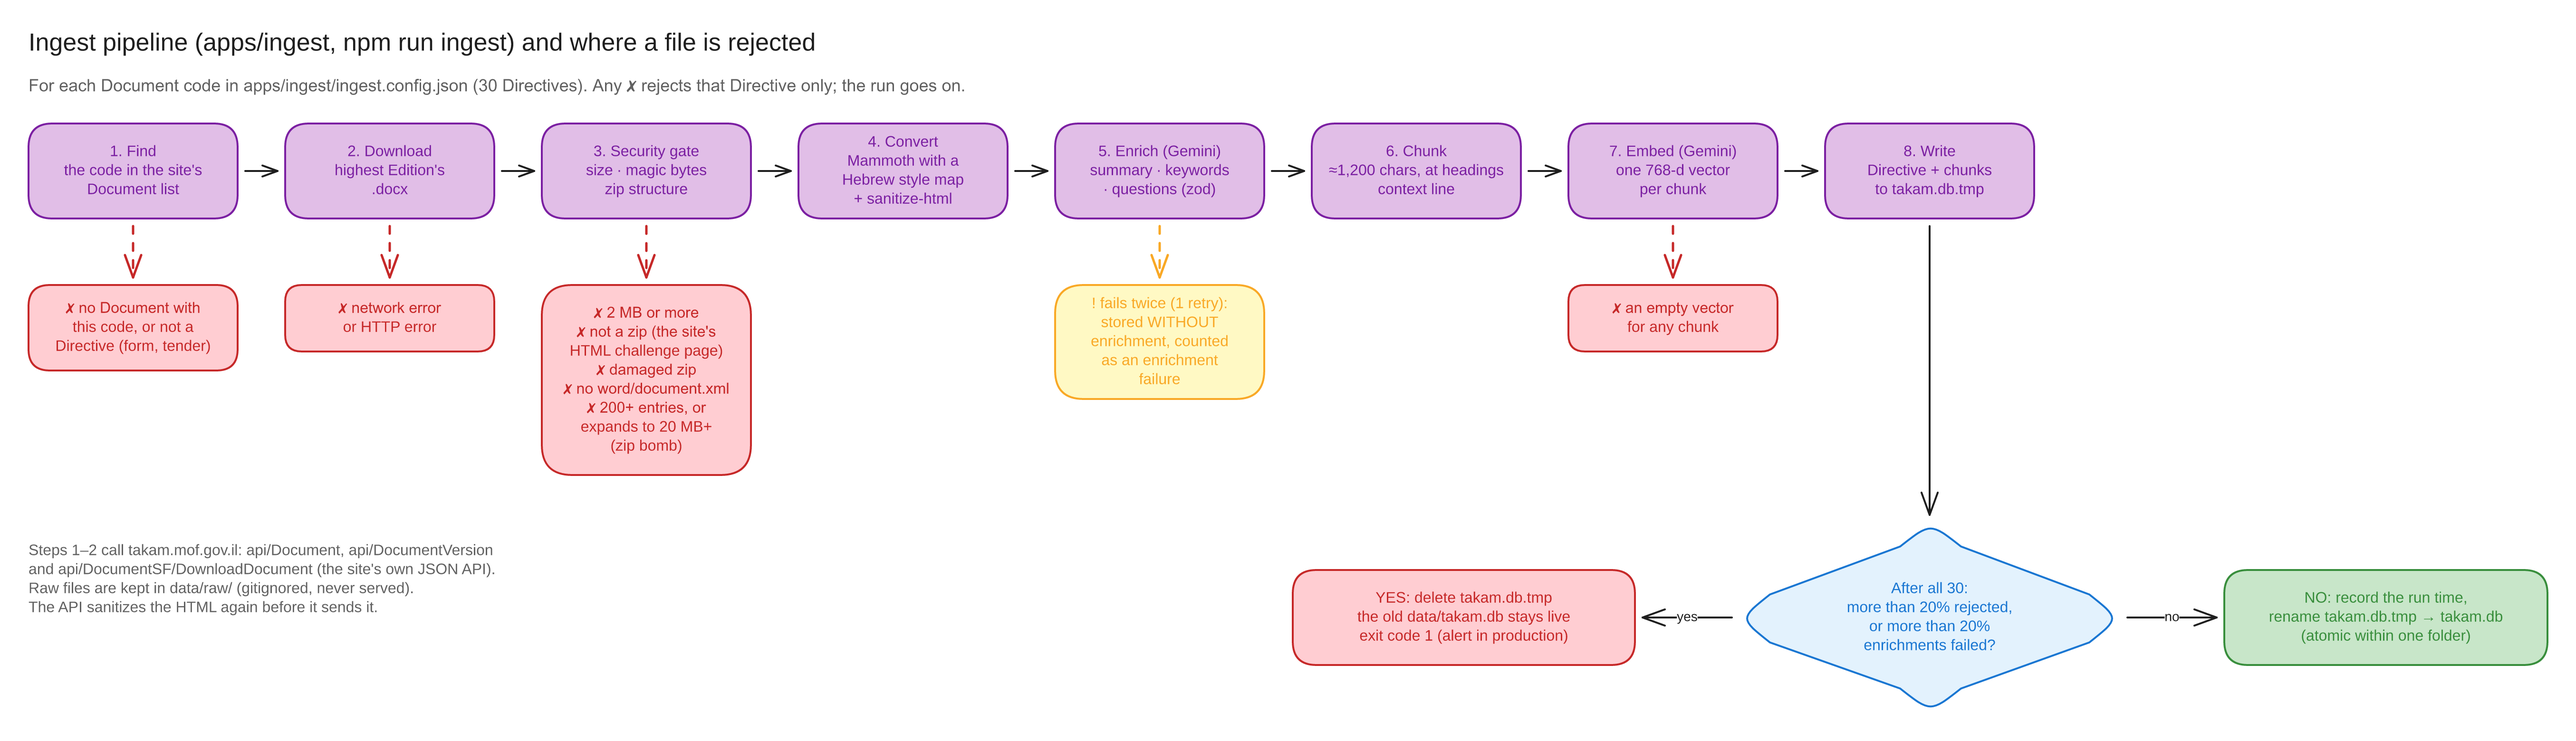
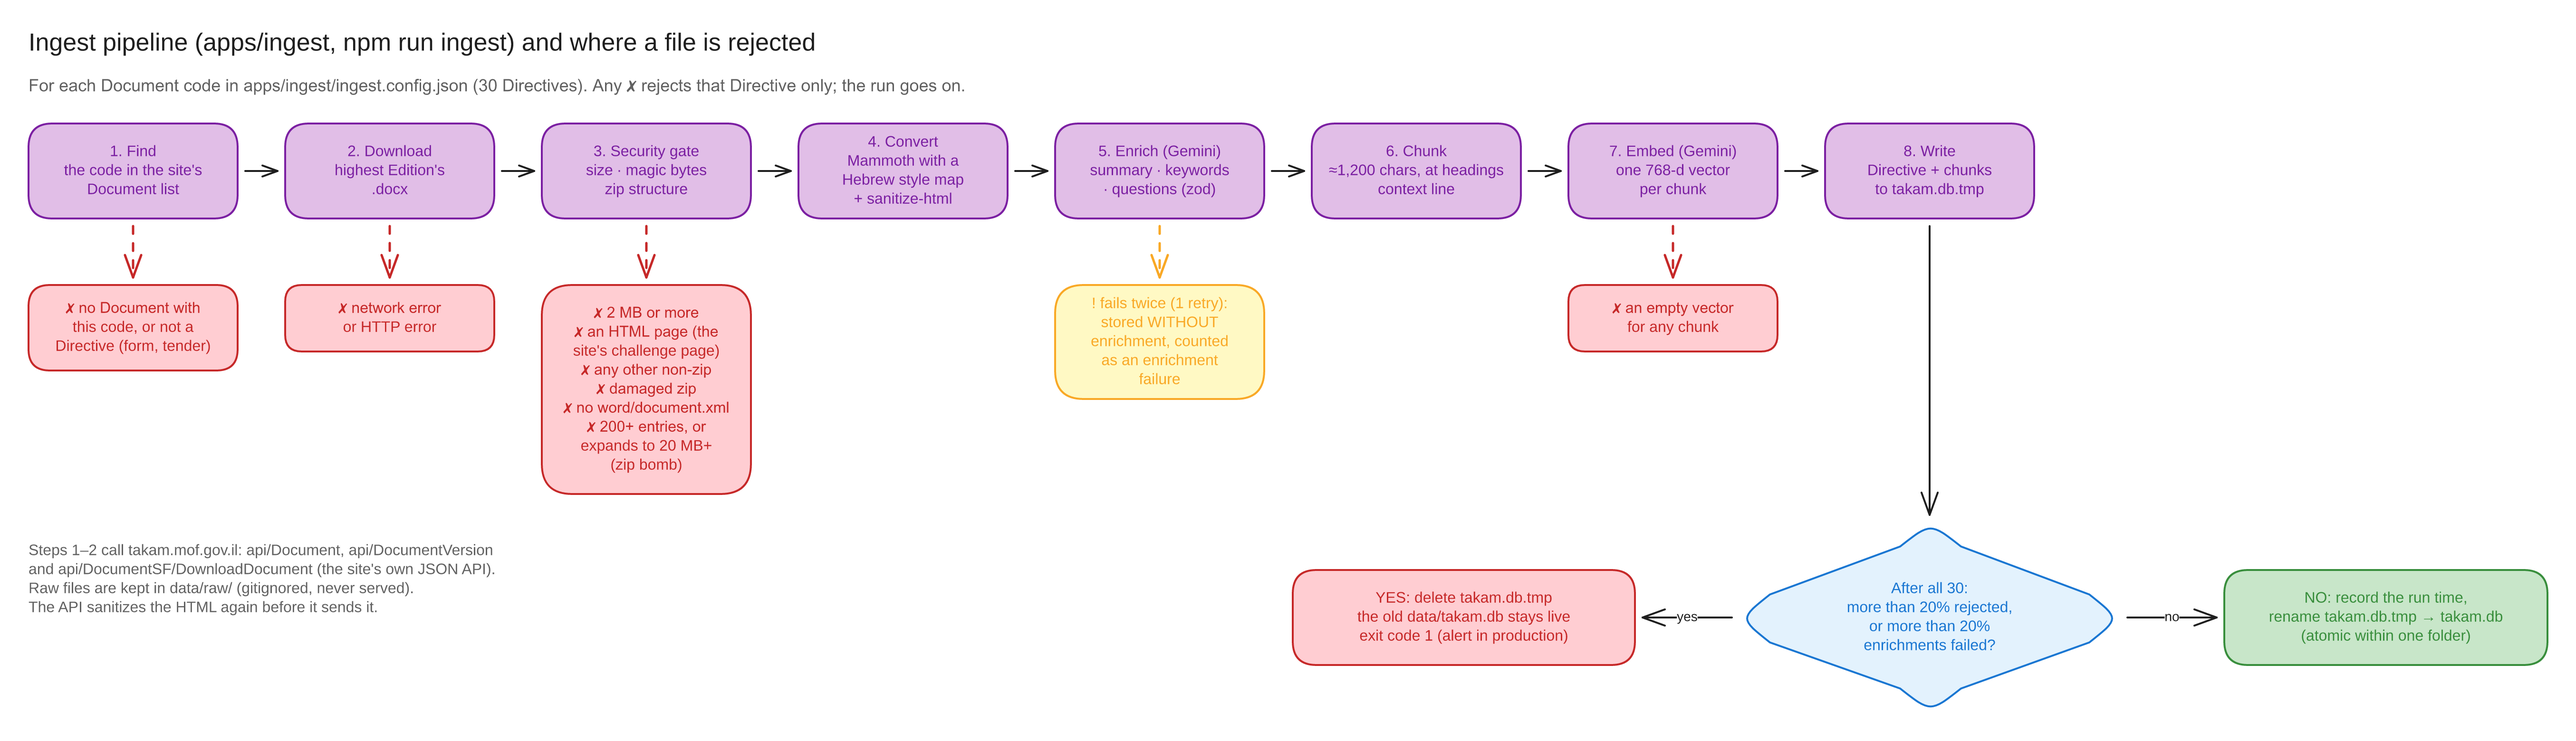
docs: review fixes for the README, HLD and ingest diagram
- readiness needs a new /api/ready; /api/health always answers 200
- H.1.1.1 written as a full Document code
- the HLD no longer points at a missing "Not done" section
- the gate box separates the HTML page from other non-zip files
- the plan's pipeline order matches the code (enrich before chunk)

Changed region(s): [[0.1871, 0.4308, 0.3118, 0.6769]]

diff --git a/docs/production-hld.md b/docs/production-hld.md
@@ -26,7 +26,7 @@ The organization's container platform (OpenShift or another Kubernetes) runs thr
 
 - **Sign-in:** SSO in front of both the web app and the API, through the organization's identity provider (OIDC at the Route/Ingress, or an oauth2-proxy sidecar). The Directives are public, but chat costs money per question, and the search log should be tied to real users.
 - **Secrets from a vault:** the LLM key and the database password come from Vault (or the organization's secret manager) into the pods as environment variables, through the External Secrets Operator or the Vault agent. Nothing secret is in the repo or the image. The POC already reads everything from the environment (`.env` is only for a laptop, and `.env.example` holds no values).
-- **A virus scan in the gate:** the gate gets one more check, after the zip checks and before Mammoth opens the file: send the file to a ClamAV service (`clamd`) and reject it if it finds anything. That reject counts toward the 20% rule like any other. The POC has no scan (README, "Not done").
+- **A virus scan in the gate:** the gate gets one more check, after the zip checks and before Mammoth opens the file: send the file to a ClamAV service (`clamd`) and reject it if it finds anything. That reject counts toward the 20% rule like any other. The POC has no scan (README, Part C, "What I chose not to build").
 - **Network egress limited:** a NetworkPolicy, plus the organization's egress firewall or proxy, lets the pods reach only two outside hosts: `takam.mof.gov.il` (ingest) and the LLM endpoint (ingest and API). Everything else is refused, so a converted file that somehow ran code could not send data out.
 - **What the POC already does, and production keeps:** the gate's limits (2 MB, the `PK` magic bytes, `word/document.xml`, under 200 entries, under 20 MB expanded, counted as a stream), sanitize-html with an allowlist in ingest and again in the API, the API's strict CSP header, and citations checked in our code rather than by the model.
 - **Images:** containers run as non-root with a read-only root filesystem, and the registry scans each image before deploy.
@@ -46,7 +46,7 @@ Migrations (the Postgres schema) run as a Job before the API's new pods start, a
 
 The deploy counts as done only when all three pass. The pipeline runs them, and a person can run them by hand with the same commands.
 
-1. **Readiness probe:** each API pod is Ready only when `GET /api/health` answers 200. The rollout waits for all new pods to be Ready and stops (keeping the old pods) if they don't get there in time. `/api/health` returns `{directives, indexSize, lastIngest}`. Readiness also requires `directives > 0` and `indexSize == directives`, so a pod that started against an empty or half-built store never gets traffic.
+1. **Readiness probe:** each API pod is Ready only when its readiness endpoint answers 200. The rollout waits for all new pods to be Ready and stops (keeping the old pods) if they don't get there in time. In the POC, `GET /api/health` returns `{directives, indexSize, lastIngest}` and always answers 200, even for an empty store. Production adds `GET /api/ready`, which answers 503 unless `directives > 0` and `indexSize == directives`, so a pod that started against an empty or half-built store never gets traffic. `/api/health` stays as it is, for people and dashboards.
 2. **Smoke query:** the pipeline calls the live URL:
    - `GET /api/search?q=13.10.1` must return `H.13.10.1` first. That checks the database, the index and the Hebrew-aware tokenizer in one call.
    - `GET /api/directives/H.13.10.1` must return HTML and the CSP header.
@@ -73,7 +73,7 @@ The API and ingest export Prometheus metrics, and logs go to the cluster's log s
 **The scenario.** The Takam site sits behind a web firewall (Sucuri). When the firewall decides a client is a bot, it answers every download with an HTML challenge page and status 200, not with the Word file. The POC met this while it was being built: Node's default User-Agent got 403s, and a download URL with an empty last segment got the HTML page.
 
 **What happens in this design:**
-1. Ingest downloads 30 (or 500) "files" that are all the same HTML page.
+1. Ingest downloads 30 (or, in production, about 550) "files" that are all the same HTML page.
 2. The gate rejects each one with the reason "an HTML page, not a Word file", because its first bytes are `<!DOCTYPE` and not the zip magic bytes `PK`. The gate gives the HTML page its own reason, apart from any other file that is not a zip.
 3. 100% of the files are rejected, more than 20%, so ingest drops its new schema (in the POC, it deletes `takam.db.tmp`) and exits with code 1. **The old store stays live**, so employees still search and read yesterday's Directives, with no gap.
 4. **An alert fires** in two ways: the rejection-rate alert (with the same `reason="html_page"` label on every file), and the CronJob's failed-Job alert. The next morning, the 36-hour freshness alert fires too if nothing is done.
@@ -83,7 +83,7 @@ The API and ingest export Prometheus metrics, and logs go to the cluster's log s
 **How to roll back:**
 - **Bad data** (a run passed the 20% rules but the content is wrong, for example enrichment in the wrong language): point `active_run` back at the previous schema, in one `UPDATE`, and the API's next refresh serves it. Schemas are kept for 7 days.
 - **A bad deploy:** revert the image tag in the deploy repo, and Argo CD rolls the Deployment back (or run `oc rollout undo deployment/api`). Migrations are backward-compatible, so the old API runs on the new schema.
-- **A bad model** (the LLM provider changed the model behind a name): pin the model version in the config (`LLM_MODEL`, `EMBEDDING_MODEL`) in Vault, and restart. The embedding model must match the stored vectors. The API refuses vectors of a different length, and a model change needs a full re-embed (one ingest run).
+- **A bad model** (the LLM provider changed the model behind a name): pin the model version in the config (`LLM_MODEL`, `EMBEDDING_MODEL`) in Vault, and restart. The embedding model must match the stored vectors, so a change of embedding model needs a full re-embed (one ingest run). The POC only fails a question whose vector length differs from the stored ones (the cosine function throws). Production should check the model name and vector length at startup and refuse to start on a mismatch.
 
 ## 7. Scale
 

diff --git a/README.md b/README.md
@@ -16,8 +16,8 @@ Each point below was checked on the live site on 2026-11-23 (all of the evidence
 
 | | What happens on the site today | Evidence |
 |---|---|---|
-| Find | Search covers only the metadata (title, code, keywords), never the text. | Headings inside Directive 1.1.1, such as "תקציב גמיש" (flexible budget), return 0 results. |
-| Find | Search matches parts of words, with no ranking. | "רכב" (car) returns 62 results, and the first is 1.1.1, a budget glossary, because its keywords contain "הרכב התקציב" (the *composition* of the budget). The results are a chapter tree, not a ranked list. |
+| Find | Search covers only the metadata (title, code, keywords), never the text. | Headings inside Directive H.1.1.1, such as "תקציב גמיש" (flexible budget), return 0 results. |
+| Find | Search matches parts of words, with no ranking. | "רכב" (car) returns 62 results, and the first is H.1.1.1, a budget glossary, because its keywords contain "הרכב התקציב" (the *composition* of the budget). The results are a chapter tree, not a ranked list. |
 | Find | There is no tolerance for typos or Hebrew spelling variants. | "גמלאות" (pensions) finds 8, while "גימלאות", the same word in full spelling, finds 0. "רכבב" (one extra letter) finds 0. |
 | Find | The metadata is thin, so better matching on it alone can't fix search. | 696 of 1,127 Documents have no keywords, and in 260 of 418 Instructions the description is just the code. |
 | Read | Reading a Directive means downloading a `.docx`. | Nothing is shown in the browser. That is awkward on a phone, and a section can't be linked to. |
@@ -322,7 +322,7 @@ Prettier checks code and config only. The Markdown docs are hand-written and kep
 - SSO sits in front of the app, the secrets come from Vault, a ClamAV scan is added to the gate, and network egress is limited to the Takam site and the LLM endpoint ([HLD § 2](docs/production-hld.md#2-security)).
 
 **How to verify that a deployment succeeded** ([HLD § 4](docs/production-hld.md#4-how-to-verify-a-deployment)):
-1. The readiness probe: `/api/health` answers 200 with `directives > 0` and `indexSize == directives`. The rollout waits for that.
+1. The readiness probe: a new `/api/ready` endpoint answers 200 only when the store has Directives and the index holds all of them (`directives > 0` and `indexSize == directives`, the numbers `/api/health` already reports). The rollout waits for that.
 2. A smoke query: `13.10.1` returns `H.13.10.1` first, a Directive page comes with HTML and the CSP header, and one fixed chat question returns `found: true` with a Citation.
 3. `lastIngest` is less than 36 hours old.
 

diff --git a/docs/plan.md b/docs/plan.md
@@ -109,7 +109,7 @@ data/takam.db   the only store (committed); data/raw/ is gitignored and never se
 | 3 | Production HLD | `docs/production-hld.md` |
 | 4 | Diagram: POC architecture (UI / API / data / ingest, and the components in each) | `docs/diagrams/poc-architecture.png` |
 | 5 | Diagram: production architecture (the HLD's target state) | `docs/diagrams/production-architecture.png` |
-| 6 | Diagram: ingest pipeline (fetch → gate → convert → chunk → enrich → embed → SQLite, and the points where a file is rejected) | `docs/diagrams/ingest-pipeline.png` |
+| 6 | Diagram: ingest pipeline (fetch → gate → convert → enrich → chunk → embed → SQLite, and the points where a file is rejected) | `docs/diagrams/ingest-pipeline.png` |
 | 7 | Diagram: the chat flow as a LangGraph (retrieve → generate → checkCitations, with the retry and fallback) | `docs/diagrams/chat-flow.png` |
 | 8 | Decision records in English, plus Hebrew versions | `docs/adr/`, `docs/adr/he/` |
 | 9 | Video, up to 3 minutes | link in the README |
